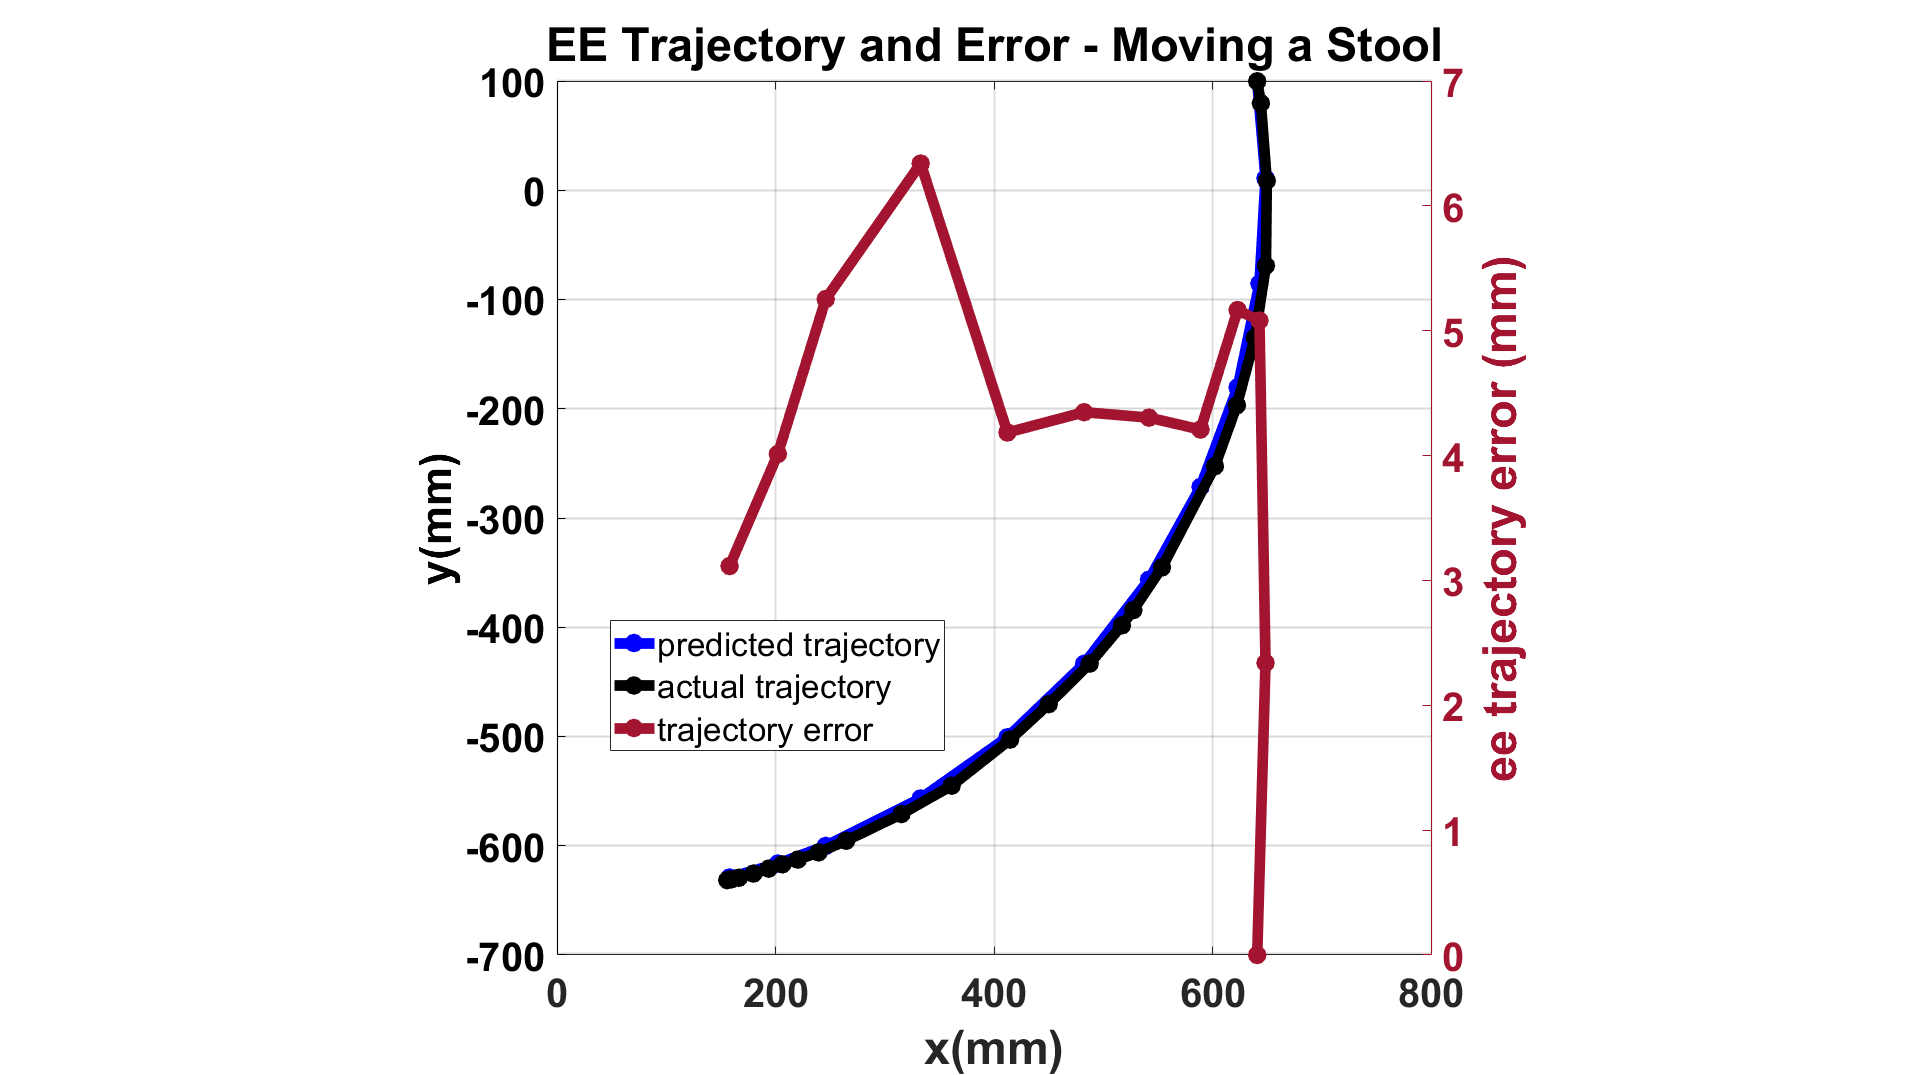
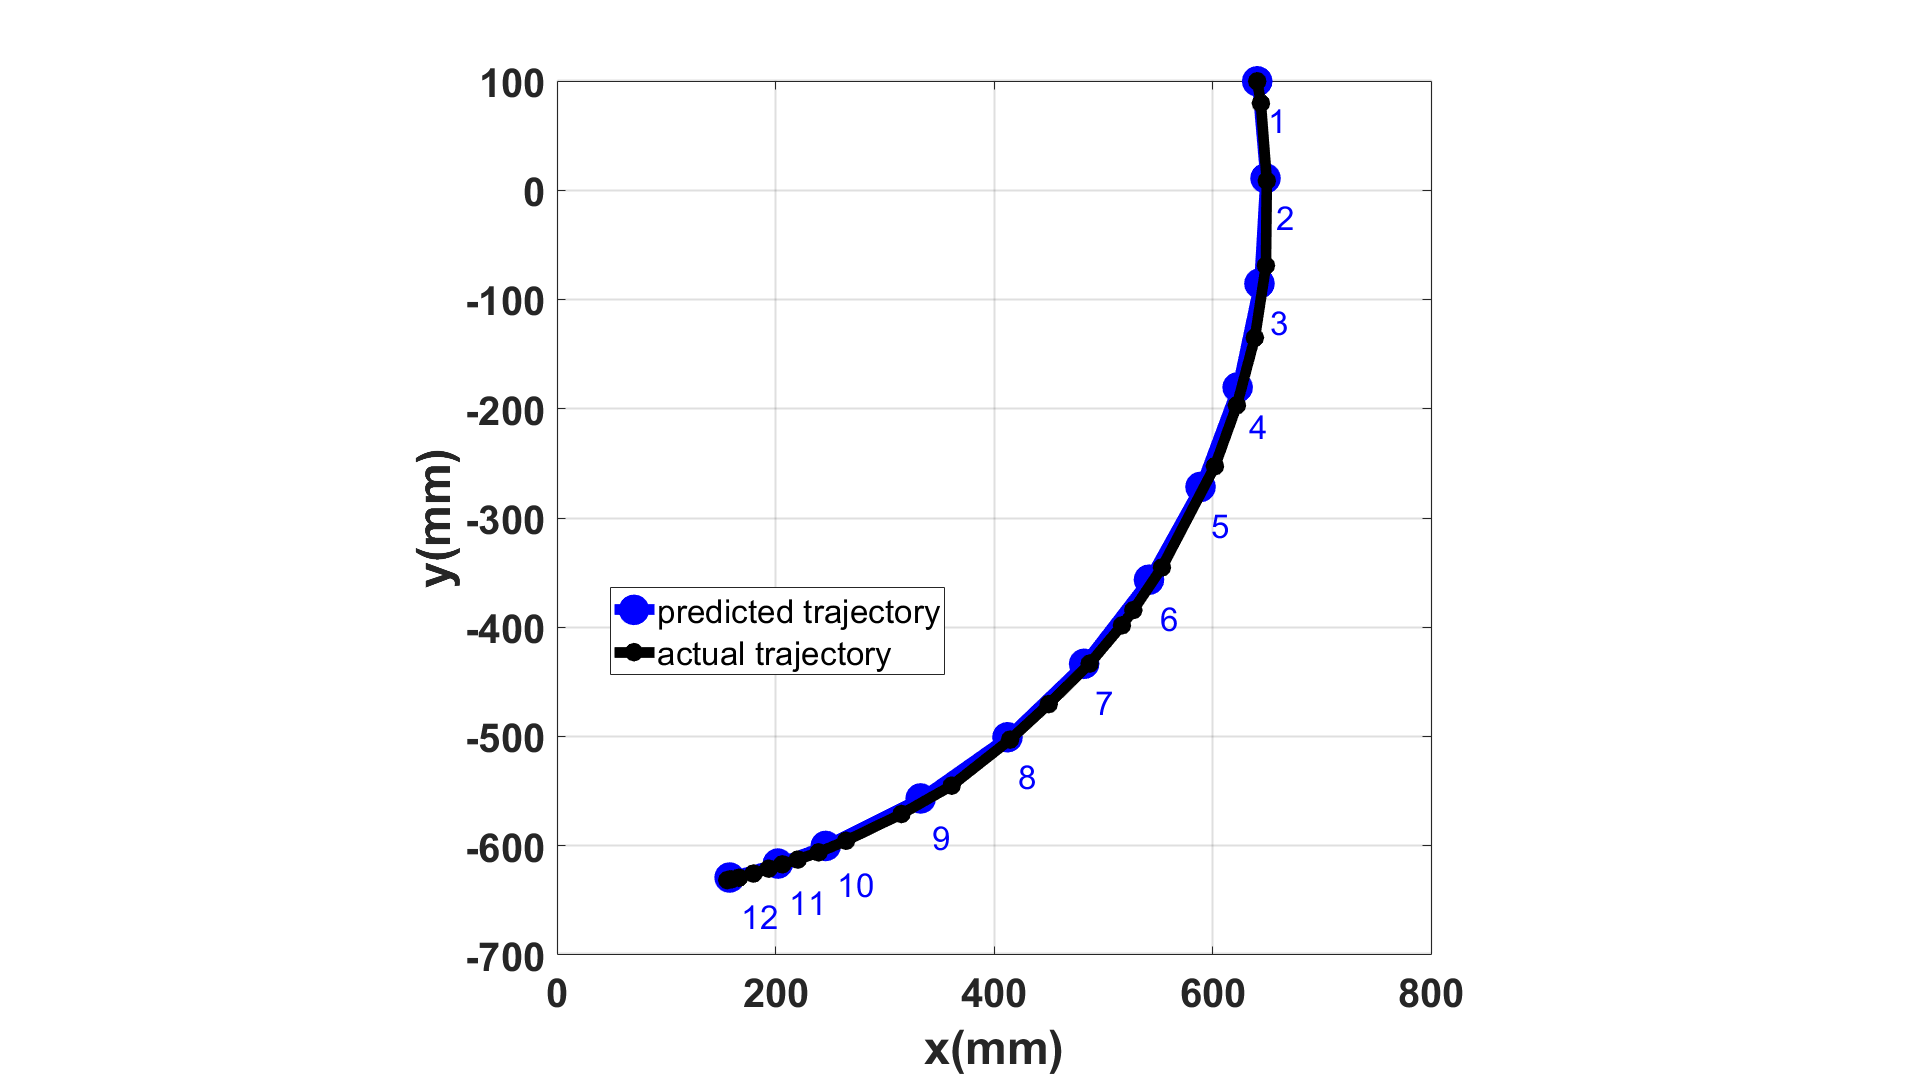
separate and update moving a stool traj and err plots

diff --git a/real_robot_data_plots_and_demos/moving_a_stool/ee_position_and_joint_states_plotter.m b/real_robot_data_plots_and_demos/moving_a_stool/ee_position_and_joint_states_plotter.m
@@ -184,7 +184,7 @@ grid_lw = 1.5;
 xlabel(ax_joint_states, 'time (s)');
 ylabel(ax_joint_states, 'joint states (rad)');
 legend(ax_joint_states,'Interpreter', 'none', 'Color', 'none'); % Don't interpret underscores as cues for subscripts, and don't fill the legend box
-title(ax_joint_states, ['Actual Joint States vs. Time - ',title_postfix]);
+% title(ax_joint_states, ['Actual Joint States vs. Time - ',title_postfix]);
 
 % Set fontsizes for various plot parameters
 ax_joint_states.XAxis.FontSize = tick_fontsize; 
@@ -202,7 +202,7 @@ ax_joint_states.GridLineWidth = grid_lw;
 % Set legend position
 legend_position = ax_joint_states.Legend.Position;
 shift_amount_x = 0.245; 
-shift_amount_y = 0.23; 
+shift_amount_y = 0.245; 
 ax_joint_states.Legend.Position = [legend_position(1) + shift_amount_x, legend_position(2)+ shift_amount_y, legend_position(3), legend_position(4)];
 
 % Plot Error between predicted and actual EE cartesian trajectory
@@ -280,17 +280,17 @@ ax_ee_traj_error.GridLineWidth = grid_lw;
 
 % Plot
 fig4 = figure(4);
-ax_ee_traj_error2 = subplot(1, 1, 1, 'Parent', fig4);
+ax_ee_traj_final = subplot(1, 1, 1, 'Parent', fig4);
 
 % Plot both lines first
-plot(ax_ee_traj_error2, df_pred{:, 'PredEEX'} * 1000, ...
+plot(ax_ee_traj_final, df_pred{:, 'PredEEX'} * 1000, ...
     df_pred{:, 'PredEEY'} * 1000, ...
-    'b-o', 'LineWidth', 8, 'DisplayName', 'predicted trajectory');
-labels = 1:1:length(df_pred{:, 'PredEEX'} );
-labelpoints(df_pred{:, 'PredEEX'} * 1000, ...  % Efficient indexing
-     df_pred{:, 'PredEEY'} * 1000, labels,'SE', 0.4, 1, 'Fontsize', 12)
+    'b-o', 'LineWidth', 8, 'MarkerSize', 15, 'DisplayName', 'predicted trajectory');
+point_labels = 1:1:length(df_pred{:, 'PredEEX'} );
+labelpoints(df_pred{:, 'PredEEX'} * 1000, ...
+     df_pred{:, 'PredEEY'} * 1000, point_labels,'SE', 0.4, 1, 'Fontsize', 25, 'Color', 'b');
 hold on;
-plot(ax_ee_traj_error2, df_act{:, 'ActEEX'} * 1000, ...
+plot(ax_ee_traj_final, df_act{:, 'ActEEX'} * 1000, ...
     df_act{:, 'ActEEY'} * 1000, ...
     'k-o', 'LineWidth', 8, 'DisplayName', 'actual trajectory');
 
@@ -298,34 +298,19 @@ plot(ax_ee_traj_error2, df_act{:, 'ActEEX'} * 1000, ...
 axis equal
 pbaspect([1 1 1])
 % Add left y-axis
-yyaxis left
+% yyaxis left
 
 % Add grid
 grid on
 ylim([-700 100])
 xlim([0 800])
-xlabel(ax_ee_traj_error2, 'x(mm)');
-ylabel(ax_ee_traj_error2, 'y(mm)');
-title(ax_ee_traj_error2, ['EE Trajectory and Error - ',title_postfix]);
+xlabel(ax_ee_traj_final, 'x(mm)');
+ylabel(ax_ee_traj_final, 'y(mm)');
+% title(ax_ee_traj_error2, ['EE Trajectory and Error - ',title_postfix]);
 
-
-
-
-yyaxis right
-plot(ax_ee_traj_error2, ...
-     df_pred{:, 'PredEEX'} * 1000, ...  % Efficient indexing
-     d, ...
-     'Color', '#A2142F', ...
-     'LineStyle', '-', ...  % Use 'LineStyle' for line style
-     'Marker', 'o', ...     % Use 'Marker' for marker style
-     'LineWidth', 8, 'DisplayName', 'trajectory error');
-ylabel(ax_ee_traj_error2, 'ee trajectory error (mm)');
-% Create legend for the left plot elements
-hLegend = legend(ax_ee_traj_error2, 'Interpreter', 'none', 'Color', 'none');
+hLegend = legend(ax_ee_traj_final, 'Interpreter', 'none', 'Color', 'none');
 hLegend.Box = 'on'; % Turn on the legend box (if not already on)
 hLegend.Color = 'white'; % Set the background color of the legend box
-yaxis_right = ax_ee_traj_error2.YAxis(2);  % Index 2 for the second (right) y-axis
-yaxis_right.Color = '#A2142F';  % Example using a color name
 
 
 % Set fontsizes for various plot parameters
@@ -337,26 +322,56 @@ grid_lw = 1.5;
 
 
 % Set fontsizes for various plot parameters
-ax_ee_traj_error2.XAxis.FontSize = tick_fontsize; 
-ax_ee_traj_error2.XAxis.FontWeight = 'bold';
-ax_ee_traj_error2.YAxis(1).FontSize = tick_fontsize;  % Primary Y-axis
-ax_ee_traj_error2.YAxis(1).FontWeight = 'bold';
-ax_ee_traj_error2.YAxis(2).FontSize = tick_fontsize;  % Secondary Y-axis
-ax_ee_traj_error2.YAxis(2).FontWeight = 'bold';
+ax_ee_traj_final.XAxis.FontSize = tick_fontsize; 
+ax_ee_traj_final.XAxis.FontWeight = 'bold';
+ax_ee_traj_final.YAxis.FontSize = tick_fontsize;  % Primary Y-axis
+ax_ee_traj_final.YAxis.FontWeight = 'bold';
 
-ax_ee_traj_error2.XLabel.FontSize = label_fontsize;
-ax_ee_traj_error2.YLabel(1).FontSize = label_fontsize;  % Primary Y-axis label
-% ax_ee_traj_error.YLabel(2).FontSize = label_fontsize;  % Secondary Y-axis label
+ax_ee_traj_final.XLabel.FontSize = label_fontsize;
+ax_ee_traj_final.YLabel.FontSize = label_fontsize;  % Primary Y-axis label
 
-ax_ee_traj_error2.ZLabel.FontSize = label_fontsize;
-ax_ee_traj_error2.Title.FontSize = title_fontsize;
-ax_ee_traj_error2.GridLineWidth = grid_lw;
-ax_ee_traj_error2.Legend.FontSize = legend_fontsize;
+ax_ee_traj_final.ZLabel.FontSize = label_fontsize;
+ax_ee_traj_final.Title.FontSize = title_fontsize;
+ax_ee_traj_final.GridLineWidth = grid_lw;
+ax_ee_traj_final.Legend.FontSize = legend_fontsize;
 % ax_ee_traj_error2.Legend.Location = "west";
 
 % Set legend position
-legend_position = ax_ee_traj_error2.Legend.Position;
+legend_position = ax_ee_traj_final.Legend.Position;
 shift_amount_x = -0.10; 
 shift_amount_y = -0.38; 
-ax_ee_traj_error2.Legend.Position = [legend_position(1) + shift_amount_x, legend_position(2)+ shift_amount_y, legend_position(3), legend_position(4)];
+ax_ee_traj_final.Legend.Position = [legend_position(1) + shift_amount_x, legend_position(2)+ shift_amount_y, legend_position(3), legend_position(4)];
 
+
+
+fig5 = figure(5);
+ax_ee_traj_error_final = subplot(1, 1, 1, 'Parent', fig5);
+
+% yyaxis right
+plot(ax_ee_traj_error_final, ...
+     point_labels, ...  % Efficient indexing
+     d, ...
+     'Color', '#A2142F', ...
+     'LineStyle', '-', ...  % Use 'LineStyle' for line style
+     'Marker', 'o', ...     % Use 'Marker' for marker style
+     'LineWidth', 8, 'MarkerSize', 12, 'DisplayName', 'trajectory error');
+xlabel(ax_ee_traj_error_final, 'predicted trajectory point index');
+ylabel(ax_ee_traj_error_final, 'ee trajectory error (mm)');
+% title(ax_ee_traj_error3, ['EE Trajectory Error - ',title_postfix]);
+
+grid on
+
+% Set fontsizes for various plot parameters
+ax_ee_traj_error_final.XAxis.FontSize = tick_fontsize; 
+ax_ee_traj_error_final.XAxis.FontWeight = 'bold';
+ax_ee_traj_error_final.XTick = point_labels
+
+ax_ee_traj_error_final.YAxis.FontSize = tick_fontsize;  % Primary Y-axis
+ax_ee_traj_error_final.YAxis.FontWeight = 'bold';
+
+ax_ee_traj_error_final.XLabel.FontSize = label_fontsize;
+ax_ee_traj_error_final.YLabel.FontSize = label_fontsize;  % Primary Y-axis label
+
+ax_ee_traj_error_final.ZLabel.FontSize = label_fontsize;
+ax_ee_traj_error_final.Title.FontSize = title_fontsize;
+ax_ee_traj_error_final.GridLineWidth = grid_lw;
